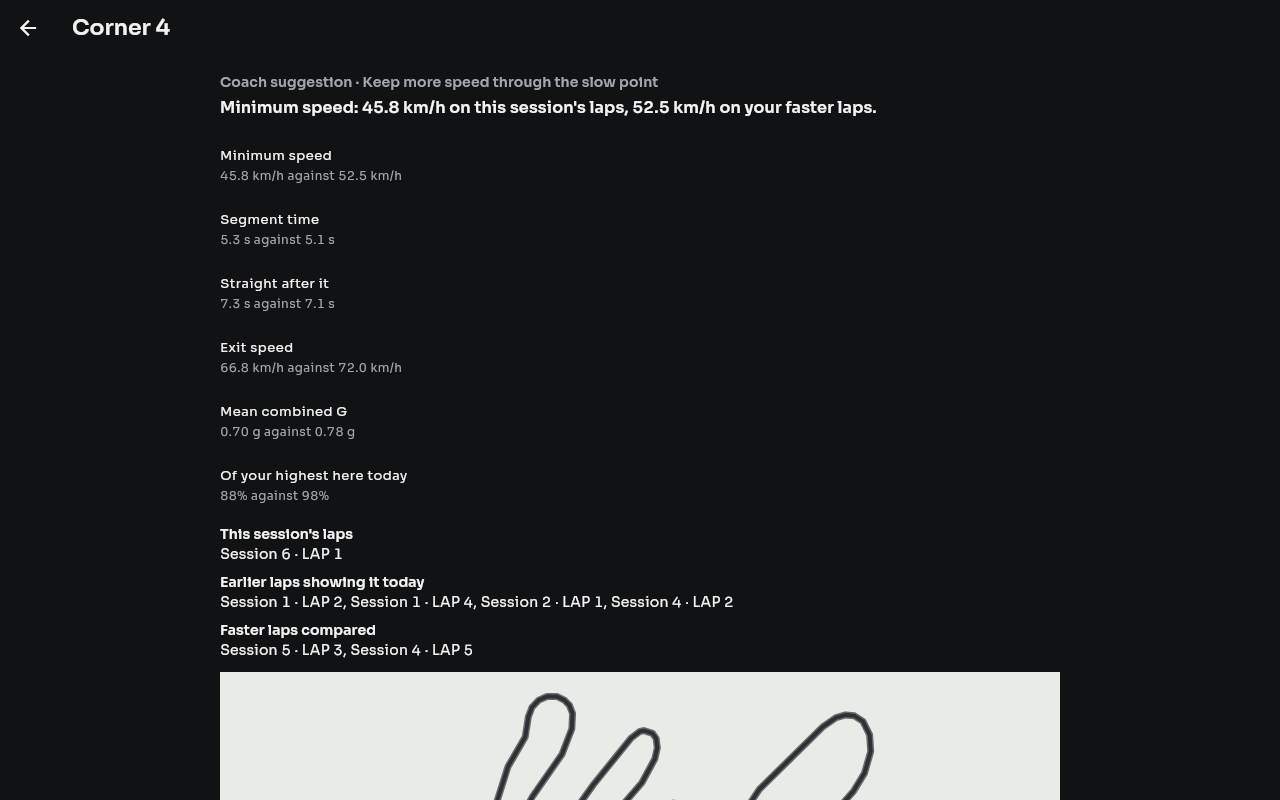
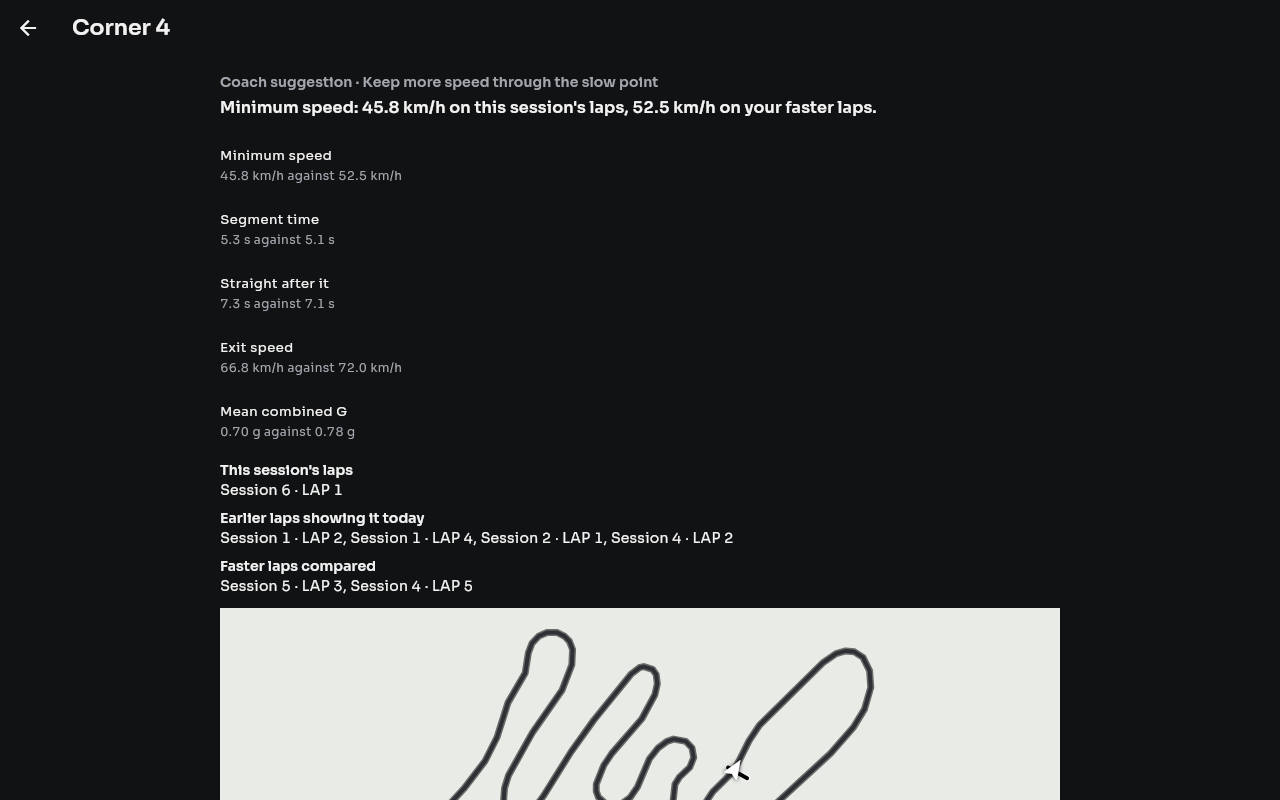
Coach: combined G without a percentage score (FET-124 review)
Drop the share of the day's highest (AGENTS.md: no percentage scores);
treat a lateral channel of zeros as missing; the fixture's lateral G is
on the corner arcs only. Tests check the combination, the median and
the zero case; the guide says RCZ imports show none.

Claude-Session: https://claude.ai/code/session_013sS4ccJvKkVDpDaXN8zxhj

Changed region(s): [[0.1562, 0.5625, 0.8438, 1.0]]

diff --git a/docs/user-guide/pages/day.html b/docs/user-guide/pages/day.html
@@ -49,7 +49,7 @@
   <li>The first item is your <strong>Main focus</strong>: the one thing to work on in the next run. Any others are marked <strong>Once that feels settled</strong>: try them only when the main focus comes naturally. Each item names the corner and what to do, for example <em>Corner 4 · Keep more speed through the slow point</em>.</li>
   <li><strong>Measured</strong> says what the laps show, for example <em>Minimum speed: 45.8 km/h on this session's laps, 52.7 km/h on your faster laps.</em></li>
   <li><strong>Try</strong> (or <strong>Keep</strong>, for an improvement over your last three laps) says what to work on. It never gives an exact point, and apart from the braking-marker item the braking point stays as it is.</li>
-  <li><strong>Why?</strong> opens the measured values (session against faster laps), the laps they come from (<em>This session's laps</em>; <em>Earlier laps showing it today</em> lists laps of earlier sessions with the same pattern), the corner highlighted on the best lap's map (for a change at a lift, a braking start, a throttle return or a first throttle pickup, with this session's typical point in amber and the faster laps' in blue, or your three fastest laps' today for the braking marker, as the legend under the map says; the points are medians placed on the best lap's line; a minimum speed or a coast has no point, and an improvement to keep has none either), the mean combined G through the corner (braking, cornering and acceleration together, from the recording's longitudinal and lateral acceleration) on this session's laps against the faster laps, and the same as a share of your highest at that corner today (slow laps left out), when every lap compared has both accelerations; it says how hard the car was worked there, not how much grip was left; and a support score from 0 to 0.9. The score says how well the laps back the pattern; it is not a probability.</li>
+  <li><strong>Why?</strong> opens the measured values (session against faster laps), the laps they come from (<em>This session's laps</em>; <em>Earlier laps showing it today</em> lists laps of earlier sessions with the same pattern), the corner highlighted on the best lap's map (for a change at a lift, a braking start, a throttle return or a first throttle pickup, with this session's typical point in amber and the faster laps' in blue, or your three fastest laps' today for the braking marker, as the legend under the map says; the points are medians placed on the best lap's line; a minimum speed or a coast has no point, and an improvement to keep has none either), the mean combined G through the corner (braking, cornering and acceleration together, from the recording's longitudinal and lateral acceleration) on this session's laps against the faster laps, when every lap compared has both accelerations (a RaceChrono RCZ import has no vehicle longitudinal and lateral acceleration, so it shows none); it says how hard the car was worked there, not how much grip was left; and a support score from 0 to 0.9. The score says how well the laps back the pattern; it is not a probability.</li>
 </ul>
 <p>There are at most three items: at most two changes, each in a different corner, and one thing to keep. The main focus is a change when there is one; an improvement to keep comes last. Changes are ordered by the time your laps lost against the laps compared: through the corner, plus the straight right after it, which is counted with the corner. The card shows that straight as <em>Straight after it</em>. It is an observed time, not proof that the corner caused it: traffic or braking for the next corner shows there too. A corner with no straight right after it, or where a lap compared has no time for that straight, is ranked on its own time. Times lost are compared in steps of 0.1 s; within the same step, the change seen on more of the session's laps comes first. Work on one thing at a time. The suggestions look for an early lift, too much coasting, a low minimum speed and a late throttle return, using the rules of the earlier DrivingCoach app on this app's own laps and corners. Coasting means neither pedal pressed: a stretch held at light throttle (3% or more) counts as throttle, not coasting. They suggest an opportunity, not a promised gain. A change is only suggested when it was seen on at least three laps of the day so far, earlier sessions included, and the session coached still shows it on at least half of its laps compared there (laps with a faster lap to compare with). A pattern you have already left behind is not suggested again; when there is nothing else to suggest, the card then says that patterns seen earlier today do not repeat on most of this session's laps. The measured values are the session coached's own. A lap more than 5% slower than its session's typical (median) lap, in a session of at least three laps, is not read for a pattern: traffic, a warm-up or a cool-down lap says little about technique. The card lists those laps under <em>Left out as much slower than their session's typical lap</em>.</p>
 <p>The coach also looks for a throttle picked up too early, a check of this app's own. <em>Pick up the throttle once</em> appears when, after the braking ends and before the slow point, the throttle is held at 20% or more for at least 0.2 s with the brake under 10% and is then released again (to 8% or less for at least 0.2 s and 3 m), while the faster laps compared pick it up once, after the slow point. It shows where the throttle was first picked up on this session's laps against where the faster laps pick it up. A pickup the car gains 1.5 m/s (about 5 km/h) or more on before the release is a drive out of an earlier apex in a series of corners, not a stab, and does not count; neither does a pickup after the car has already slowed to an earlier minimum and gained 1.5 m/s, or one ended by braking again (10% or more). It needs the brake and throttle recorded, with the braking measured from the brake pressure and no gap in the data, and like the other changes it must be seen on at least three laps of the day.</p>

diff --git a/packages/telemetry_core/test/day/day_coach_test.dart b/packages/telemetry_core/test/day/day_coach_test.dart
@@ -1070,30 +1070,59 @@ void main() {
   });
 
   group('combined G', () {
-    test('on a change: this session against the faster laps and the highest today', () {
-      final coach = _coach([20, 20.5], [15, 15.2, 15.1], lateral: true);
-      final finding = coach.findings.singleWhere((f) => f.kind == CoachKind.lowMinimumSpeed);
-      final g = finding.evidence.singleWhere((e) => e.key == CoachMetric.combinedG);
-      final share = finding.evidence.singleWhere((e) => e.key == CoachMetric.combinedGShare);
+    CoachEvidence? combined(DayCoach coach) => coach.findings
+        .singleWhere((f) => f.kind == CoachKind.lowMinimumSpeed)
+        .evidence
+        .where((e) => e.key == CoachMetric.combinedG)
+        .singleOrNull;
+
+    test('on a change: this session against the faster laps', () {
+      final g = combined(_coach([20, 20.5], [15, 15.2, 15.1], lateral: true))!;
       expect(g.unit, 'g');
-      expect(share.unit, '%');
       // Slower through the corner: less G than the faster laps.
       expect(g.observed, lessThan(g.reference - 0.1));
-      // The highest is the faster session's best lap: the faster laps' median
-      // is just under it.
-      expect(share.reference, inInclusiveRange(95, 100));
-      expect(share.observed, closeTo(share.reference * g.observed / g.reference, 1e-6));
+    });
+
+    test('combines the longitudinal and lateral G', () {
+      // 0.4 g along and 0.3 g across: 0.5 g combined, on every lap.
+      void steady(String runId, TelemetrySession session) {
+        _edit(session, 'longacc', 0.4, (d) => true);
+        _edit(session, 'latacc', 0.3, (d) => true);
+      }
+
+      final g = combined(_coach([20, 20.5], [15, 15.2, 15.1], lateral: true, edit: steady))!;
+      expect(g.observed, closeTo(0.5, 1e-6));
+      expect(g.reference, closeTo(0.5, 1e-6));
+    });
+
+    test('the median of this session\'s laps', () {
+      void spread(String runId, TelemetrySession session) {
+        _edit(session, 'longacc', 0, (d) => true);
+        _edit(session, 'latacc', 0.8, (d) => true);
+        if (runId == 'run2') {
+          for (final (lap, g) in [(1, 0.3), (2, 0.6), (3, 0.9)]) {
+            _edit(session, 'latacc', g, (d) => true, lap: lap);
+          }
+        }
+      }
+
+      final g = combined(_coach([20, 20.5], [15, 15.2, 15.1], lateral: true, edit: spread))!;
+      expect(g.observed, closeTo(0.6, 1e-6));
+      expect(g.reference, closeTo(0.8, 1e-6));
     });
 
     test('left out without a lateral acceleration', () {
-      final coach = _coach([20, 20.5], [15, 15.2, 15.1]);
-      final finding = coach.findings.singleWhere((f) => f.kind == CoachKind.lowMinimumSpeed);
-      expect(
-        finding.evidence.where(
-          (e) => e.key == CoachMetric.combinedG || e.key == CoachMetric.combinedGShare,
-        ),
-        isEmpty,
+      expect(combined(_coach([20, 20.5], [15, 15.2, 15.1])), isNull);
+    });
+
+    test('left out when the lateral acceleration is zeros only', () {
+      final coach = _coach(
+        [20, 20.5],
+        [15, 15.2, 15.1],
+        lateral: true,
+        edit: (runId, session) => _edit(session, 'latacc', 0, (d) => true),
       );
+      expect(combined(coach), isNull);
     });
 
     test('left out when a lap compared has no lateral acceleration', () {
@@ -1105,8 +1134,7 @@ void main() {
           if (runId == 'run1') _edit(session, 'latacc', double.nan, (d) => true);
         },
       );
-      final finding = coach.findings.singleWhere((f) => f.kind == CoachKind.lowMinimumSpeed);
-      expect(finding.evidence.where((e) => e.key == CoachMetric.combinedG), isEmpty);
+      expect(combined(coach), isNull);
     });
   });
 }

diff --git a/packages/telemetry_core/lib/src/day/day_coach.dart b/packages/telemetry_core/lib/src/day/day_coach.dart
@@ -149,10 +149,6 @@ enum CoachMetric {
   /// g: how hard the car was worked there, not a share of the grip
   /// available.
   combinedG,
-
-  /// That mean against the highest of the day's laps so far at the corner,
-  /// in percent.
-  combinedGShare,
 }
 
 /// Why the plan is what it is, for the app to say in its language.
@@ -777,8 +773,9 @@ const int coachCombinedGMinimumPoints = 5;
 
 /// The mean combined G ([ggMagnitude] of the longitudinal and lateral
 /// acceleration pairs, [buildGgPairs]) from [start] to [end] along the
-/// lap; null without both channels in a supported unit or with fewer than
-/// [coachCombinedGMinimumPoints] pairs.
+/// lap; null without both channels in a supported unit, with fewer than
+/// [coachCombinedGMinimumPoints] pairs or with a lateral acceleration of
+/// zeros only.
 double? _meanCombinedG(
   TelemetrySession session,
   List<ProgressSegment> trace,
@@ -789,6 +786,8 @@ double? _meanCombinedG(
   if (from == null || to == null || to <= from) return null;
   final pairs = buildGgPairs(session, from, to);
   if (!pairs.valid || pairs.points.length < coachCombinedGMinimumPoints) return null;
+  // A lateral channel of zeros is a placeholder, not a measurement.
+  if (pairs.points.every((point) => point.lateralG == 0)) return null;
   var sum = 0.0;
   for (final point in pairs.points) {
     sum += ggMagnitude(point.longitudinalG, point.lateralG);
@@ -1484,13 +1483,6 @@ CoachFinding? _corrective(
   if (kind == CoachKind.excessiveCoasting) confidence -= 0.05;
 
   double medianOf(double Function(_Passage) read) => _median(now.map((o) => read(o.current)));
-  // The highest mean combined G of the day's laps at the corner, slow laps
-  // left out.
-  final highestG = passages
-      .where((p) => !slow.contains(p.lap.reference))
-      .map((p) => p.combinedG)
-      .whereType<double>()
-      .fold<double?>(null, (a, b) => a == null || b > a ? b : a);
   double referenceOf(double Function(_Passage) read) =>
       _median(now.map((o) => _median(o.references.map(read))));
   final evidence = [
@@ -1543,10 +1535,8 @@ CoachFinding? _corrective(
         detail: 'Speed at the segment\'s exit.',
       ),
     if (now.every(
-          (o) => o.current.combinedG != null && o.references.every((r) => r.combinedG != null),
-        ) &&
-        highestG != null &&
-        highestG > 0) ...[
+      (o) => o.current.combinedG != null && o.references.every((r) => r.combinedG != null),
+    ))
       CoachEvidence(
         key: CoachMetric.combinedG,
         metric: 'Mean combined G',
@@ -1558,16 +1548,6 @@ CoachFinding? _corrective(
             'Mean of the longitudinal and lateral acceleration combined through the segment. '
             'How hard the car was worked, not a share of the grip available.',
       ),
-      CoachEvidence(
-        key: CoachMetric.combinedGShare,
-        metric: 'Of your highest here today',
-        observed: 100 * medianOf((p) => p.combinedG!) / highestG,
-        reference: 100 * referenceOf((p) => p.combinedG!) / highestG,
-        unit: '%',
-        referenceLaps: referenceLaps,
-        detail: 'Against the highest mean combined G of the day\'s laps so far at this segment.',
-      ),
-    ],
     if (kind == CoachKind.earlyLift)
       CoachEvidence(
         key: CoachMetric.brakingStart,

diff --git a/packages/telemetry_core/test/support/circuits.dart b/packages/telemetry_core/test/support/circuits.dart
@@ -87,8 +87,8 @@ TelemetrySession circuitSession({
 /// [pedals] it also records throttle and brake (%) and longitudinal G from
 /// the change of speed: braking when slowing by more than 0.4 m/s², full
 /// throttle when gaining more than 0.3 m/s², part throttle otherwise. With
-/// [lateral] it records lateral G too: the speed squared over the corners'
-/// radius, on the straights as well.
+/// [lateral] it records lateral G too: the speed squared over the radius in
+/// the corners, 0 on the straights.
 TelemetrySession rectangleSession(
   List<double Function(double distance)> speeds, {
   int? firstTimestampMilliseconds,
@@ -99,11 +99,14 @@ TelemetrySession rectangleSession(
   const width = 300.0, height = 150.0, radius = 30.0;
   // The outline from the gate, 0.5 m apart.
   final outline = <(double, double)>[];
+  // Whether each outline point is on a corner's arc.
+  final arc = <bool>[];
   void straight(double x0, double y0, double x1, double y1) {
     final length = math.sqrt(math.pow(x1 - x0, 2) + math.pow(y1 - y0, 2));
     final steps = (length / 0.5).round();
     for (var i = 0; i < steps; ++i) {
       outline.add((x0 + (x1 - x0) * i / steps, y0 + (y1 - y0) * i / steps));
+      arc.add(false);
     }
   }
 
@@ -112,6 +115,7 @@ TelemetrySession rectangleSession(
     for (var i = 0; i < steps; ++i) {
       final a = from + math.pi / 2 * i / steps;
       outline.add((cx + radius * math.cos(a), cy + radius * math.sin(a)));
+      arc.add(true);
     }
   }
 
@@ -139,7 +143,7 @@ TelemetrySession rectangleSession(
   }
 
   final times = <double>[], latitudes = <double>[], longitudes = <double>[];
-  final speedValues = <double>[];
+  final speedValues = <double>[], lateralValues = <double>[];
   var distance = -20.0, t = 0.0;
   final end = (speeds.length + 0.3) * perimeter;
   while (distance < end) {
@@ -151,6 +155,8 @@ TelemetrySession rectangleSession(
     latitudes.add(coordinate.latitudeDegrees);
     longitudes.add(coordinate.longitudeDegrees);
     speedValues.add(speed * 3.6);
+    final onArc = arc[((distance % perimeter) / 0.5).floor() % arc.length];
+    lateralValues.add(onArc ? speed * speed / radius / standardGravity : 0.0);
     distance += speed / 10.0;
     t += 0.1;
   }
@@ -193,10 +199,7 @@ TelemetrySession rectangleSession(
         'brake': channel('brake', brake),
         'longacc': channel('longacc', longitudinal),
       },
-      if (lateral)
-        'latacc': channel('latacc', [
-          for (final v in speedValues) (v / 3.6) * (v / 3.6) / radius / standardGravity,
-        ]),
+      if (lateral) 'latacc': channel('latacc', lateralValues),
     },
     aliases: {
       'latitude': 'latitude',

diff --git a/lib/day/next_session_card.dart b/lib/day/next_session_card.dart
@@ -48,7 +48,6 @@ extension CoachText on AppLocalizations {
     CoachMetric.firstThrottle => coachMetricFirstThrottle,
     CoachMetric.earlyThrottleShare => coachMetricEarlyThrottleShare,
     CoachMetric.combinedG => coachMetricCombinedG,
-    CoachMetric.combinedGShare => coachMetricCombinedGShare,
   };
 
   /// Why the plan is what it is; [session] names the session coached.
@@ -109,8 +108,8 @@ String? coachSpeedLabel(BuildContext context, {required bool converted}) {
   return label;
 }
 
-/// A coach value with its unit: positions in whole metres, shares in whole
-/// percent, G with two decimals, the rest with one decimal ("46.9 km/h",
+/// A coach value with its unit: positions in whole metres, shares of laps in
+/// whole percent, G with two decimals, the rest with one decimal ("46.9 km/h",
 /// "3.3 s", "412 m", "67%", "0.72 g"). Speeds are labelled
 /// [speedUnit] (unlabelled when it is empty) and not shown when it is null
 /// (see [coachSpeedLabel]).

diff --git a/test/day/next_session_card_test.dart b/test/day/next_session_card_test.dart
@@ -724,15 +724,11 @@ void main() {
     );
   });
 
-  test('combined G: two decimals, and its share of the highest today', () {
+  test('mean combined G with two decimals', () {
     expect(coachValue(0.4867, 'g', 'km/h'), '0.49\u00a0g');
-    expect(coachValue(81.21, '%', null), '81%');
+    expect(coachValue(double.nan, 'g', 'km/h'), '—');
     final en = lookupAppLocalizations(const Locale('en'));
     expect(en.coachMetric(CoachMetric.combinedG), 'Mean combined G');
-    expect(
-      en.coachMetric(CoachMetric.combinedGShare),
-      'Of your highest here today',
-    );
     final pl = lookupAppLocalizations(const Locale('pl'));
     expect(
       pl.coachMetric(CoachMetric.combinedG),

diff --git a/lib/l10n/app_localizations.dart b/lib/l10n/app_localizations.dart
@@ -530,12 +530,6 @@ abstract class AppLocalizations {
   /// **'Mean combined G'**
   String get coachMetricCombinedG;
 
-  /// The mean combined G through the corner against the highest of the day's laps so far at that corner, in percent. Shown as 'Of your highest here today: 81% on this session's laps, 100% on your faster laps.'
-  ///
-  /// In en, this message translates to:
-  /// **'Of your highest here today'**
-  String get coachMetricCombinedGShare;
-
   /// Where the throttle is applied again after the slow point, in metres along the lap.
   ///
   /// In en, this message translates to:

diff --git a/packages/telemetry_core/test/day/real_day_coach_test.dart b/packages/telemetry_core/test/day/real_day_coach_test.dart
@@ -66,9 +66,7 @@ void main() {
             '  ${item.title} (${item.finding.confidence.toStringAsFixed(2)}): '
             '${item.explanation}',
           );
-          for (final e in item.finding.evidence.where(
-            (e) => e.key == CoachMetric.combinedG || e.key == CoachMetric.combinedGShare,
-          )) {
+          for (final e in item.finding.evidence.where((e) => e.key == CoachMetric.combinedG)) {
             print(
               '    ${e.metric}: ${e.observed.toStringAsFixed(2)} ${e.unit} against '
               '${e.reference.toStringAsFixed(2)} ${e.unit}',

diff --git a/lib/l10n/app_localizations_pl.dart b/lib/l10n/app_localizations_pl.dart
@@ -292,10 +292,6 @@ class AppLocalizationsPl extends AppLocalizations {
   String get coachMetricCombinedG => 'Średnie łączne przeciążenie';
 
   @override
-  String get coachMetricCombinedGShare =>
-      'Względem Twojego najwyższego tu dzisiaj';
-
-  @override
   String get coachMetricThrottleReturn => 'Ponowne dodanie gazu';
 
   @override

diff --git a/lib/l10n/app_localizations_en.dart b/lib/l10n/app_localizations_en.dart
@@ -285,9 +285,6 @@ class AppLocalizationsEn extends AppLocalizations {
   String get coachMetricCombinedG => 'Mean combined G';
 
   @override
-  String get coachMetricCombinedGShare => 'Of your highest here today';
-
-  @override
   String get coachMetricThrottleReturn => 'Throttle return';
 
   @override
